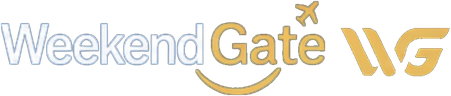
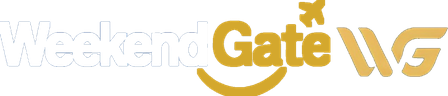
fix(brand): heavier WeekendGate weight and closer WG spacing
Bold the approved lockup letterforms and cut the gap between the wordmark and WG monogram.

diff --git a/apps/web/src/app/travela-skin.css b/apps/web/src/app/travela-skin.css
@@ -195,7 +195,7 @@
 }
 
 .shop-root.wg-new-ui .wg-topbar-logo .wg-logo {
-  gap: 0.28rem;
+  gap: 0.12rem;
   align-items: center;
 }
 

diff --git a/apps/web/src/app/shop.css b/apps/web/src/app/shop.css
@@ -74,7 +74,7 @@
 .wg-logo {
   display: inline-flex;
   align-items: center;
-  gap: 0.28rem;
+  gap: 0.12rem;
 }
 
 .wg-logo-mark {
